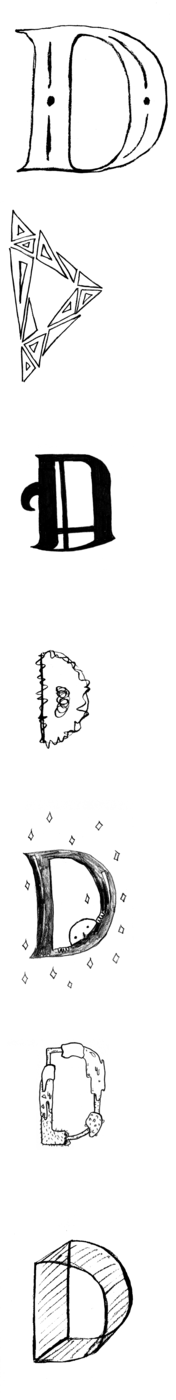
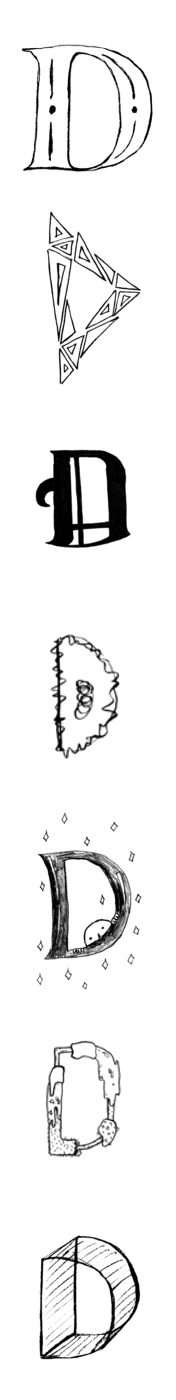
Changed header, added flocking

diff --git a/source/js/app.js b/source/js/app.js
@@ -1,6 +1,23 @@
 "use strict"
 
-var TWEEN = require("tween.js")
+var TWEEN = require("tween.js");
+var boid = require("boids");
+
+var boidCount = 31; 
+var flock = boid({
+  boids: boidCount,              // The amount of boids to use 
+  speedLimit: 1.1,          // Max steps to take per tick 
+  accelerationLimit: .1,   // Max acceleration per tick 
+  separationDistance: 80, // Radius at which boids avoid others 
+  alignmentDistance: 80, // Radius at which boids align with others 
+  choesionDistance: 200,  // Radius at which boids approach others 
+  separationForce: .65,  // Speed to avoid at 
+  alignmentForce: 10,   // Speed to align with other boids 
+  choesionForce: 1000,     // Speed to move towards other boids 
+  attractors: [ [300, 500, 1000, .1, ]]
+})
+
+
 
 function randRange(min, max) {
   var modifier = "-";
@@ -68,8 +85,36 @@ var n_tween = new TWEEN.Tween(n_coord)
 requestAnimationFrame(animate);
 
 function animate(time) {
+	flock.tick();
+	update_flock();
   requestAnimationFrame(animate);
   TWEEN.update(time);
+}
+
+var letter_list = [] 
+
+function loadLetters(letter, amount) {
+	for(var i = 0; i < amount; i++) {
+		var el = document.createElement("div");
+		var childEl = document.createElement("div");
+		el.className = "no-height";
+		el.className = "letter";
+		childEl.style.backgroundImage = "url(../images/letters/"+ letter +"/" + letter + "-" + i + ".png)";
+		el.appendChild(childEl);
+		document.body.appendChild(el);		
+		letter_list.push(el);
+	}
+}
+loadLetters("d", 7);
+loadLetters("g", 8);
+loadLetters("n", 9);
+loadLetters("s", 7);
+
+function update_flock() {
+	for(var i = 0; i < flock.boids.length; i++) {
+	  letter_list[i].style.left= flock.boids[i][0];
+	  letter_list[i].style.top= flock.boids[i][1];
+	}	
 }
 
 d_tween.easing(TWEEN.Easing.Quadratic.In);

diff --git a/templates/index.html b/templates/index.html
@@ -3,8 +3,7 @@
 {% block content %}
 <header>
 <div class="header-text">
-  <h1> Western</h1>
-  <h1> Washington</h1>
+  <h1> Western Washington University</h1>
 </div>
 <div class="letter-header">
   <div id="d">
@@ -17,19 +16,9 @@
   </div>
 </div>
 
+
 </div>
   <div>
-    <h1> University </h1>
-  <div class="real">
-    <h1> we 
-      keep 
-    </h1>
-    <h1>
-      it <span>real </span>
-    </h1>
-    <div class="turq">
-    </div>
-  </div>
     <div class="no-height">
       <div class="line blue">
         <p> 
@@ -44,6 +33,13 @@
         </p>
       </div>
     </div>
+  <div class="real">
+    <h1> we keep <br>
+      it <span>real </span>
+    </h1>
+    <div class="turq">
+    </div>
+  </div>
   </div>
 </header>
 <div class="container">
@@ -53,24 +49,6 @@
   <div class="guest-speaker">
     <p> hey</p>
   </div>
-  <div class="l-honeycomb"> 
-    <div class="comb">
-    </div>
-    <div class="comb">
-    </div>
-    <div class="comb">
-    </div>
-    <div class="comb">
-    </div>
-    <div class="comb">
-    </div>
-    <div class="comb">
-    </div>
-    <div class="comb">
-    </div>
-    <div class="comb">
-    </div>
-</div>
 
 </div>
 {% endblock %}

diff --git a/source/scss/modules/real.scss b/source/scss/modules/real.scss
@@ -1,14 +1,17 @@
 .real {
-  @include span(6 of 12);
+  margin-top: 10em;
+  @include span(12 of 12);
   @include breakpoint($tablet) {
-    @include span(7 of 12);
+    @include span(6 of 12);
+    margin-top: 0;
+    @include span(6 of 12);
   }
   height: 20em;
   h1 {
-    line-height: 2;
-    text-align: right;
     font-size: 1.6em;
+    line-height: 1.2;
     @include breakpoint($tablet) {
+      text-align: right;
       font-size: 3em;
       line-height: .8;
     }
@@ -16,20 +19,20 @@
       color: white;
     }
   }
-  h1:nth-child(1) {
-   position: relative;
-    right: 2em; 
-  }
   div {
-    width: 50%;
-    height: 100%;
-    @include push(6 of 12);
     position: relative;
-    bottom: 10em;
+    width: 100%;
+    height: 100%;
+    bottom: 3em;
     z-index: -20;
-    float: right;
-    max-width: 5em;
+    height: 5em;
     @include breakpoint($tablet) {
+      bottom: 10em;
+      max-width: 5em;
+      float: right;
+      width: 50%;
+      height: 100%;
+      @include push(6 of 12);
       max-width: 10em;
     }
   }

diff --git a/source/scss/modules/line.scss b/source/scss/modules/line.scss
@@ -1,25 +1,34 @@
 $end-height: 40em;
+$end-width: 100%;
 .no-height {
   height: 0;
   overflow: visible;
 }
 .line {
-  height: $end-height;
-  width: 1em;
-  @include push(8 of 12);
+  animation: drawHorizontal 3s;
+  width: $end-width;
+  height: 1em;
+
   @include breakpoint($tablet) {
-  
+    height: $end-height;
+    width: 1em;
+    @include push(7 of 12);
+    animation: draw 3s;
   }
-  animation: draw 3s;
   p {
      position: relative;
-     left: 2em; 
-     font-size: .8em;
-     text-transform: uppercase;
+     top: 1em;
+     left: 1em;
      color: $yellow;
      font-family: $mono-font;
      font-weight: 800;
      width: 15em;
+     text-transform: uppercase;
+    @include breakpoint($tablet) {
+       left: 2em; 
+       font-size: .8em;
+       width: 15em;
+     }
   }
 }
 
@@ -29,5 +38,13 @@ $end-height: 40em;
   }
   to {
     height: $end-height;
+  }
+}
+@keyframes drawHorizontal {
+  from {
+    width: 0em;
+  }
+  to {
+    width: $end-width;
   }
 }

diff --git a/source/scss/modules/wander.scss b/source/scss/modules/wander.scss
@@ -1,0 +1,45 @@
+.letter {
+  z-index: -1000;
+  position: absolute;
+  left: 0;
+  top: 0;
+  div {
+    background-size: contain;
+    width: 50px;
+    height: 50px;
+    background-repeat: no-repeat;
+  }
+}
+
+#floating_g {
+  position: absolute;
+  div {
+    background-image: url("../images/letters/g/g-0.png");
+    width: 100px;
+    height: 200px;
+  }
+}
+#floating_d {
+  position: absolute;
+  div {
+    background-image: url("../images/letters/d/d-0.png");
+    width: 100px;
+    height: 200px;
+  }
+}
+#floating_s {
+  position: absolute;
+  div {
+    background-image: url("../images/letters/s/s-0.png");
+    width: 100px;
+    height: 200px;
+  }
+}
+#floating_n {
+  position: absolute;
+  div {
+    background-image: url("../images/letters/n/n-0.png");
+    width: 100px;
+    height: 200px;
+  }
+}

diff --git a/gulpfile.js b/gulpfile.js
@@ -4,6 +4,7 @@ var browserSync = require('browser-sync').create();
 var nunjucks = require('gulp-nunjucks');
 var imagemin = require('gulp-imagemin');
 var browserify = require('gulp-browserify');
+var sourcemaps = require('gulp-sourcemaps');
 
 
 //TODO:
@@ -38,10 +39,12 @@ gulp.task('js', function() {
 
 gulp.task('sass', function(){
     return gulp.src('source/style.scss')
+        .pipe(sourcemaps.init())
         .pipe(sass({
             outputStyle: 'compressed',
             includePaths: ['node_modules/susy/sass', 'node_modules/breakpoint-sass/stylesheets']
         }).on('error', sass.logError))
+        .pipe(sourcemaps.write('.'))
         .pipe(gulp.dest('public/css/'))
         .pipe(browserSync.reload({
             stream: true

diff --git a/source/scss/modules/letters.scss b/source/scss/modules/letters.scss
@@ -18,18 +18,22 @@
   }
   #d{
    background-image: url("../images/letters/d/out.png");
+   background-repeat: repeat-y;
    background-color: $red;
    }
   #s {
    background-image: url("../images/letters/s/out.png");
+   background-repeat: repeat-y;
    background-color: $blue;
   }
   #g {
    background-image: url("../images/letters/g/out.png");
+   background-repeat: repeat-y;
    background-color: $yellow;
   }
   #n {
    background-image: url("../images/letters/n/out.png");
+   background-repeat: repeat-y;
    background-color: $turq;
   }
 }

diff --git a/source/scss/modules/header-text.scss b/source/scss/modules/header-text.scss
@@ -1,13 +1,17 @@
 .header-text {
-  height: 5.5em;
+  h1{
+    text-transform: uppercase;
+    font-weight: 700;
+    line-height: 1.3;
+    font-size: 1.4em;
+    @include breakpoint($tablet) {
+      font-size: 2em;
+    }
+  }
+  text-align: center;
   position: relative;
   right: 0;
   z-index: -21;
-  h1:nth-child(2) {
-    margin-left: 3em;
-    text-align: right;
-  }
-  @include push(2 of 12);
   animation: slide-left .5s;
 }
 

diff --git a/source/style.scss b/source/style.scss
@@ -6,6 +6,7 @@
 //layouts
 @import "scss/layouts/l-honeycomb.scss";
 @import "scss/layouts/container.scss";
+@import "scss/layouts/body.scss";
 
 //modules
 @import "scss/modules/letter-header.scss";
@@ -14,6 +15,7 @@
 @import "scss/modules/real.scss";
 @import "scss/modules/header-text.scss";
 @import "scss/modules/letters.scss";
+@import "scss/modules/wander.scss";
 
 //states
 

diff --git a/source/scss/modules/letter-header.scss b/source/scss/modules/letter-header.scss
@@ -11,15 +11,6 @@ header {
   margin: 0 auto;
 }
 
-h1{
-  text-transform: uppercase;
-  font-weight: 700;
-  font-size: 2em;
-  line-height: .3;
-  @include breakpoint($tablet) {
-    font-size: 5em;
-  }
-}
 
 
 //$header-block-height: 25em;

diff --git a/source/scss/layouts/body.scss b/source/scss/layouts/body.scss
@@ -1,0 +1,6 @@
+body {
+  margin-top: 2em;
+  @include breakpoint($tablet) {
+    margin-top: 5em;
+  }
+}
